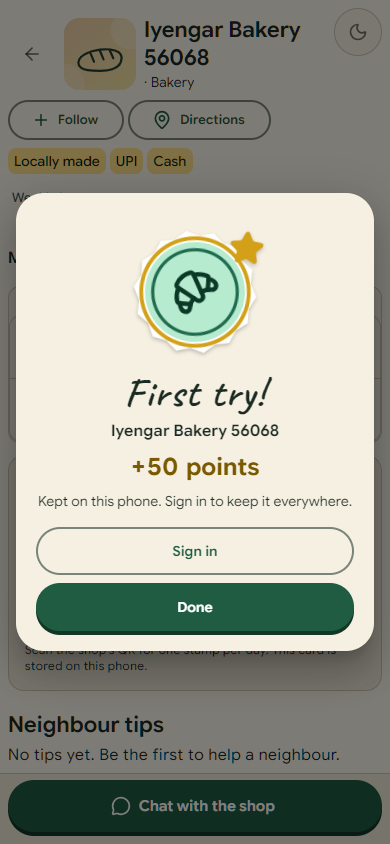
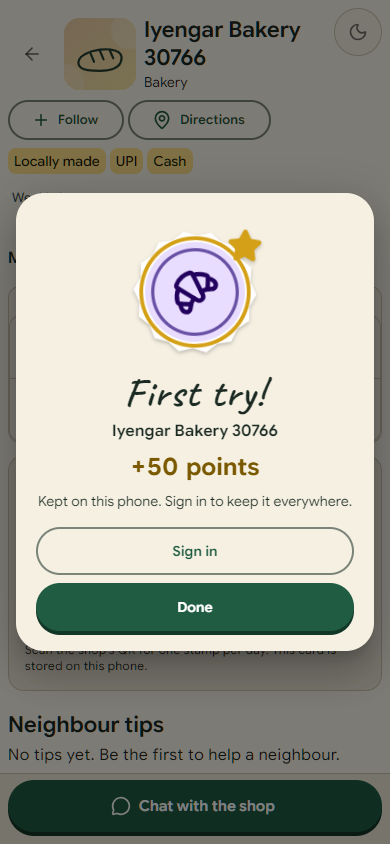
S8 runs in light and in dark (saved appearance preference), with a WCAG 2 A/AA axe pass on every screen: Today's 7, shop, stamp moment, passport level, stamp book, quests, second scan

Changed region(s): [[0.3692, 0.2773, 0.6769, 0.4313], [0.2769, 0.4929, 0.7077, 0.5237], [0.3692, 0.0616, 0.5538, 0.1232]]

diff --git a/tests/stories/s8-passport.spec.ts b/tests/stories/s8-passport.spec.ts
@@ -1,4 +1,5 @@
-import { expect, test, type Page } from '@playwright/test'
+import { AxeBuilder } from '@axe-core/playwright'
+import { expect, test, type Browser, type Page } from '@playwright/test'
 import { closeSheet, enter, localOnly, phone, shareSigned, shot } from './support.js'
 
 /**
@@ -61,10 +62,10 @@ async function seedPinnedShop(page: Page, name: string, at: { lat: number; lng: 
   await expect(page.getByRole('button', { name: `Choose shop: ${name}` })).toBeVisible()
 }
 
-test.use(phone)
-test.skip(({ isMobile }) => !isMobile, 'Story evidence uses the phone project')
-test("S8 · Today's 7, a shop, the stamp moment and the passport", async ({ page, browser }) => {
-  test.setTimeout(90_000)
+type Mode = 'light' | 'dark'
+
+/** One shop, its signed QR and a customer phone standing at its pin, in the given appearance. */
+async function setup(page: Page, browser: Browser, mode: Mode) {
   await localOnly(page)
   await enter(page)
   const shopName = `Iyengar Bakery ${Date.now().toString().slice(-5)}`
@@ -77,88 +78,129 @@ test("S8 · Today's 7, a shop, the stamp moment and the passport", async ({ page
     ...phone,
     isMobile: true,
     hasTouch: true,
+    // The app follows its saved choice (default light), not the system scheme.
+    colorScheme: mode === 'dark' ? 'light' : 'dark',
     permissions: ['geolocation'],
     geolocation: { latitude: at.lat, longitude: at.lng, accuracy: 15 },
   })
-  try {
-    const customer = await context.newPage()
-    await localOnly(customer)
-    await test.step("1 · Today's 7 on the Ask home", async () => {
-      await customer.goto(`http://127.0.0.1:${process.env.WEB_PORT ?? 3200}/explore/`)
-      await customer.getByRole('button', { name: 'Use my location' }).click()
-      await customer.getByRole('button', { name: 'Explore my neighbourhood' }).click()
-      const today = customer.getByRole('region', { name: /^Today near/ })
-      const find = today.getByRole('listitem').filter({ hasText: shopName }).first()
-      await expect(find).toBeVisible({ timeout: 20_000 })
-      await expect(find).toContainText(/min walk/)
-      await find.scrollIntoViewIfNeeded()
-      await shot(customer, 8, 1)
-    })
-    await test.step('2 · a find opens its shop', async () => {
-      const today = customer.getByRole('region', { name: /^Today near/ })
-      const find = today.getByRole('listitem').filter({ hasText: shopName }).first()
-      await find.getByRole('link', { name: 'Go' }).click()
-      await expect(customer).toHaveURL(/\/explore\/s\//)
-      await expect(customer.getByRole('heading', { level: 1, name: shopName })).toBeVisible()
-      // Signed out, the shop card is honest about where it lives.
-      const card = customer.getByRole('region', { name: 'Stamp card' })
-      await expect(card.getByRole('status')).toHaveText('0 stamps')
-      await expect(card).toContainText('This card is stored on this phone.')
-      await shot(customer, 8, 2)
-    })
-    await test.step('3 · scanning the counter QR: the stamp moment', async () => {
-      await customer.goto(qr)
-      const moment = customer.getByRole('dialog')
-      await expect(moment.getByRole('button', { name: 'Done' })).toBeVisible()
-      await expect(moment.getByRole('progressbar')).toHaveCount(0)
-      // A tap skips the celebration to its end state.
-      await moment.getByRole('heading').first().click()
-      await expect(moment.getByRole('heading', { name: 'First try!' })).toBeVisible()
-      await expect(moment.getByText('+50 points')).toBeVisible()
-      await expect(
-        moment.getByText('Kept on this phone. Sign in to keep it everywhere.'),
-      ).toBeVisible()
-      await expect(moment.getByRole('button', { name: 'Sign in' })).toBeVisible()
-      await shot(customer, 8, 3)
-      await moment.getByRole('button', { name: 'Done' }).click()
-      await expect(moment).toBeHidden()
-      // The signed link is spent from the address bar, and the phone card counted the visit.
-      await expect(customer).not.toHaveURL(/[?&]k=/)
-      const card = customer.getByRole('region', { name: 'Stamp card' })
-      await expect(card.getByRole('status')).toHaveText('1 stamps')
-    })
-    await test.step('4 · passport: level, streak, stamp book and quests', async () => {
-      // Back to the Ask home, then the Passport tab.
-      await customer.getByRole('link', { name: 'Back', exact: true }).first().click()
-      await customer.getByRole('navigation').getByRole('link', { name: 'Passport' }).click()
-      await expect(customer.getByRole('heading', { level: 1, name: 'Your passport' })).toBeVisible()
-      await expect(customer.getByText('On this phone', { exact: true })).toBeVisible()
-      await expect(customer.getByText('Newcomer').first()).toBeVisible()
-      await expect(customer.getByText('250 more points to Regular')).toBeVisible()
-      await expect(customer.getByRole('region', { name: 'Weekly streak: 1' })).toBeVisible()
-      await shot(customer, 8, '4-level')
-      const book = customer.getByRole('region', { name: 'Stamp book' })
-      await expect(book).toContainText(shopName)
-      await book.scrollIntoViewIfNeeded()
-      await shot(customer, 8, '4-book')
-      const quests = customer.getByRole('region', { name: 'Quests' })
-      await expect(quests.getByRole('heading', { name: 'Weekly breakthrough' })).toBeVisible()
-      // The quests in order: this week's breakthrough has the one verified visit.
-      await expect(quests.getByRole('progressbar', { name: '1 of 3' })).toHaveCount(1)
-      await quests.scrollIntoViewIfNeeded()
-      await shot(customer, 8, '4-quests')
-    })
-    await test.step('5 · a second scan the same day is honest', async () => {
-      await customer.goto(qr)
-      const moment = customer.getByRole('dialog')
-      await expect(moment.getByRole('heading', { name: 'Already stamped today' })).toBeVisible()
-      await shot(customer, 8, 5)
-      await moment.getByRole('button', { name: 'Done' }).click()
-      await expect(
-        customer.getByRole('region', { name: 'Stamp card' }).getByRole('status'),
-      ).toHaveText('1 stamps')
-    })
-  } finally {
-    await context.close()
+  await context.addInitScript((appearance) => {
+    const key = 'niva.starter.preferences'
+    if (!localStorage.getItem(key)) localStorage.setItem(key, JSON.stringify({ appearance }))
+  }, mode)
+  return { context, shopName, qr }
+}
+
+/** Screenshot plus a WCAG 2 A/AA axe pass of whatever is on screen (dialogs included). */
+function recorder(mode: Mode) {
+  return async (page: Page, step: string | number) => {
+    await shot(page, 8, mode === 'light' ? step : `${step}-dark`)
+    const { violations } = await new AxeBuilder({ page }).withTags(['wcag2a', 'wcag2aa']).analyze()
+    expect(
+      violations.map((v) => `${v.id}: ${v.nodes.map((n) => n.target.join(' ')).join(', ')}`),
+      `S8/${step} (${mode})`,
+    ).toEqual([])
   }
-})
+}
+
+async function walk(customer: Page, shopName: string, qr: string, mode: Mode) {
+  const evidence = recorder(mode)
+  await localOnly(customer)
+  await test.step("1 · Today's 7 on the Ask home", async () => {
+    await customer.goto(`http://127.0.0.1:${process.env.WEB_PORT ?? 3200}/explore/`)
+    await customer.getByRole('button', { name: 'Use my location' }).click()
+    await customer.getByRole('button', { name: 'Explore my neighbourhood' }).click()
+    const today = customer.getByRole('region', { name: /^Today near/ })
+    const find = today.getByRole('listitem').filter({ hasText: shopName }).first()
+    await expect(find).toBeVisible({ timeout: 20_000 })
+    await expect(find).toContainText(/min walk/)
+    await find.scrollIntoViewIfNeeded()
+    await evidence(customer, 1)
+  })
+  await test.step('2 · a find opens its shop', async () => {
+    const today = customer.getByRole('region', { name: /^Today near/ })
+    const find = today.getByRole('listitem').filter({ hasText: shopName }).first()
+    await find.getByRole('link', { name: 'Go' }).click()
+    await expect(customer).toHaveURL(/\/explore\/s\//)
+    await expect(customer.getByRole('heading', { level: 1, name: shopName })).toBeVisible()
+    // Signed out, the shop card is honest about where it lives.
+    const card = customer.getByRole('region', { name: 'Stamp card' })
+    await expect(card.getByRole('status')).toHaveText('0 stamps')
+    await expect(card).toContainText('This card is stored on this phone.')
+    await evidence(customer, 2)
+  })
+  await test.step('3 · scanning the counter QR: the stamp moment', async () => {
+    await customer.goto(qr)
+    const moment = customer.getByRole('dialog')
+    await expect(moment.getByRole('button', { name: 'Done' })).toBeVisible()
+    await expect(moment.getByRole('progressbar')).toHaveCount(0)
+    // A tap skips the celebration to its end state.
+    await moment.getByRole('heading').first().click()
+    await expect(moment.getByRole('heading', { name: 'First try!' })).toBeVisible()
+    await expect(moment.getByText('+50 points')).toBeVisible()
+    await expect(
+      moment.getByText('Kept on this phone. Sign in to keep it everywhere.'),
+    ).toBeVisible()
+    await expect(moment.getByRole('button', { name: 'Sign in' })).toBeVisible()
+    await evidence(customer, 3)
+    await moment.getByRole('button', { name: 'Done' }).click()
+    await expect(moment).toBeHidden()
+    // The signed link is spent from the address bar, and the phone card counted the visit.
+    await expect(customer).not.toHaveURL(/[?&]k=/)
+    const card = customer.getByRole('region', { name: 'Stamp card' })
+    await expect(card.getByRole('status')).toHaveText('1 stamps')
+  })
+  await test.step('4 · passport: level, streak, stamp book and quests', async () => {
+    // Back to the Ask home, then the Passport tab.
+    await customer.getByRole('link', { name: 'Back', exact: true }).first().click()
+    await customer.getByRole('navigation').getByRole('link', { name: 'Passport' }).click()
+    await expect(customer.getByRole('heading', { level: 1, name: 'Your passport' })).toBeVisible()
+    await expect(customer.getByText('On this phone', { exact: true })).toBeVisible()
+    await expect(customer.getByText('Newcomer').first()).toBeVisible()
+    await expect(customer.getByText('250 more points to Regular')).toBeVisible()
+    await expect(customer.getByRole('region', { name: 'Weekly streak: 1' })).toBeVisible()
+    await evidence(customer, '4-level')
+    const book = customer.getByRole('region', { name: 'Stamp book' })
+    await expect(book).toContainText(shopName)
+    await book.scrollIntoViewIfNeeded()
+    await evidence(customer, '4-book')
+    const quests = customer.getByRole('region', { name: 'Quests' })
+    await expect(quests.getByRole('heading', { name: 'Weekly breakthrough' })).toBeVisible()
+    // The quests in order: this week's breakthrough has the one verified visit.
+    await expect(quests.getByRole('progressbar', { name: '1 of 3' })).toHaveCount(1)
+    await quests.scrollIntoViewIfNeeded()
+    // Chrome rasterises freshly scrolled layers (opacity, progress bars) a beat later.
+    await customer.waitForTimeout(400)
+    await evidence(customer, '4-quests')
+  })
+  await test.step('5 · a second scan the same day is honest', async () => {
+    await customer.goto(qr)
+    const moment = customer.getByRole('dialog')
+    await expect(moment.getByRole('heading', { name: 'Already stamped today' })).toBeVisible()
+    await evidence(customer, 5)
+    await moment.getByRole('button', { name: 'Done' }).click()
+    await expect(
+      customer.getByRole('region', { name: 'Stamp card' }).getByRole('status'),
+    ).toHaveText('1 stamps')
+  })
+}
+
+test.use(phone)
+test.skip(({ isMobile }) => !isMobile, 'Story evidence uses the phone project')
+for (const mode of ['light', 'dark'] as const) {
+  test(`S8 · Today's 7, a shop, the stamp moment and the passport (${mode})`, async ({
+    page,
+    browser,
+  }) => {
+    test.setTimeout(120_000)
+    const { context, shopName, qr } = await setup(page, browser, mode)
+    try {
+      const customer = await context.newPage()
+      await walk(customer, shopName, qr, mode)
+      const surface = await customer.evaluate(() => getComputedStyle(document.body).backgroundColor)
+      // Kraft paper light, chalkboard dark (B30).
+      expect(surface).toBe(mode === 'dark' ? 'rgb(23, 39, 31)' : 'rgb(251, 247, 236)')
+    } finally {
+      await context.close()
+    }
+  })
+}
